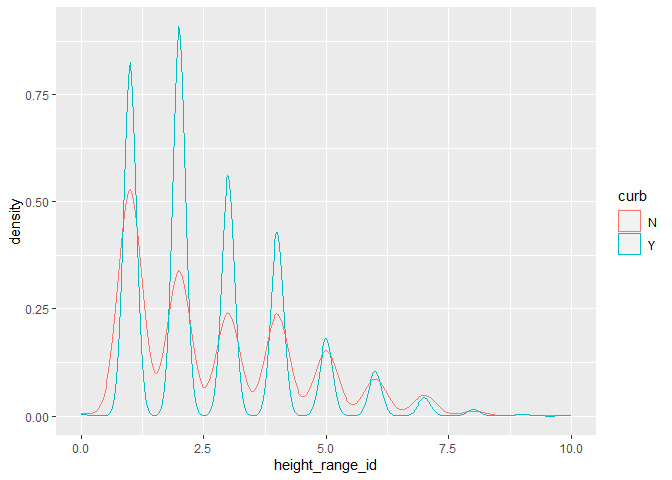
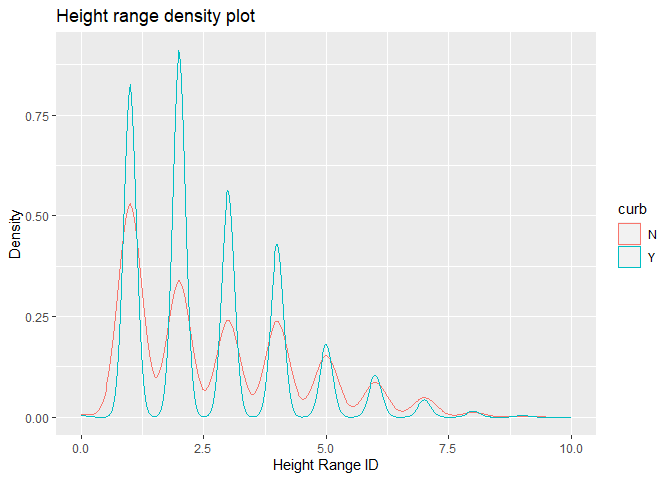
Final

diff --git a/mda-nmhowes03.md b/mda-nmhowes03.md
@@ -5,6 +5,8 @@ Nicole
 
 # Welcome to your (maybe) first-ever data analysis project!
 
+# 
+
 And hopefully the first of many. Let’s get started:
 
 1.  Install the [`datateachr`](https://github.com/UBC-MDS/datateachr)
@@ -566,7 +568,7 @@ to choose this one? Briefly explain your choice below.
 most interesting to me as I would like to investigate the relationship
 between tree species, location and dimention of the trees. It was also
 be interesting to look at trees that I could potentially see in my
-neighborhood and if they could ge easy to spot based ont ehir location
+neighborhood and if they could ge easy to spot based on their location
 and size.
 
 <!----------------------------------------------------------------------------->
@@ -649,20 +651,20 @@ sufficient comments for a reader to understand your reasoning and code.
 
 <!-------------------------- Start your work below ---------------------------->
 
-# First I wanted to “Plot the distribution of a numeric variable (#1)” for this task I want to look at diameter and what the most common diameter is across all the trees.
+# First I wanted find the average diameter of the trees to get a sense of how big they were by looking at the diameter distribution and what the most common diameter is across all the trees (Plot the distribution of a numeric variable (#1))
 
 ``` r
 ggplot(vancouver_trees, aes(x = diameter)) + 
   geom_histogram(binwidth=5.5) +
-  labs(title= "Tree Diameter", x = "diameter (m)", y = "number of trees") %>% 
+  labs(title= "Tree Diameter", x = "Diameter (m)", y = "Number of trees") %>% 
   print()
 ```
 
     ## $x
-    ## [1] "diameter (m)"
+    ## [1] "Diameter (m)"
     ## 
     ## $y
-    ## [1] "number of trees"
+    ## [1] "Number of trees"
     ## 
     ## $title
     ## [1] "Tree Diameter"
@@ -673,10 +675,10 @@ ggplot(vancouver_trees, aes(x = diameter)) +
 ![](mda-nmhowes03_files/figure-gfm/unnamed-chunk-19-1.png)<!-- -->
 
 ``` r
-#This shows me that most of the diameters are under 50 with majority being around 10.So if I needed to cut some trees I could filter for diameters just under 25 as that is where I would find the majority of them. For this plot I used the diameter for the x axis to view the counts in a histogram using ggplot. 
+#This shows me that most of the diameters are under 50 with majority being around 10.So if I needed to cut some trees I could filter for diameters just under 25 as that is where I would find the majority of them. For this plot I used the diameter for the x axis to view the counts in a histogram using ggplot to look at the distribution. 
 ```
 
-# I also want to look at trees in my own neighbourhood to see what tree’s I could look at during an everyday walk (Filter observations in your data according to your own criteria \#5)
+# I also want to look at trees in my own neighbourhood to see what tree’s I could look at during an everyday walk in Kitsilano (Filter observations in your data according to your own criteria \#5)
 
 ``` r
 print (filter (vancouver_trees, neighbourhood_name == "KITSILANO"))
@@ -735,20 +737,20 @@ vancouver_trees %>%
 #I also wanted to know the most common species located in Kitsilano so I used the top_n function and found the most common species to be "Zumi".
 ```
 
-# I wanted to addtionally look at the relationship between 2 variables in a plot being the diameter and neighbourhood to get a sense of where the widest trees were (#4)
+# I wanted to also look at the relationship between 2 variables in a plot being the diameter and neighbourhood to get a sense of where the widest trees were (#4)
 
 ``` r
 ggplot(vancouver_trees, aes(x = diameter, y = neighbourhood_name)) +
      geom_point(size = 0.5, alpha = 0.5) +
-    labs(title= "Diameters among trees in various neighbourhoods", x = "diameter (m)", y = "neighbourhood name") %>% 
+    labs(title= "Diameters among trees in various neighbourhoods", x = "Diameter (m)", y = "Neighbourhood Name") %>% 
   print()
 ```
 
     ## $x
-    ## [1] "diameter (m)"
+    ## [1] "Diameter (m)"
     ## 
     ## $y
-    ## [1] "neighbourhood name"
+    ## [1] "Neighbourhood Name"
     ## 
     ## $title
     ## [1] "Diameters among trees in various neighbourhoods"
@@ -769,15 +771,15 @@ vancouver_trees %>%
   filter(neighbourhood_name == "KITSILANO", diameter > 40.00 ) %>%
   ggplot(aes(x = diameter, y = common_name)) +
   geom_point() +
-  labs(title= "Diameters among trees in Kitsilano", x = "diameter (m)", y = "common tree name") %>% 
+  labs(title= "Diameters among trees in Kitsilano", x = "Diameter (m)", y = "Common Tree Name") %>% 
   print()
 ```
 
     ## $x
-    ## [1] "diameter (m)"
+    ## [1] "Diameter (m)"
     ## 
     ## $y
-    ## [1] "common tree name"
+    ## [1] "Common Tree Name"
     ## 
     ## $title
     ## [1] "Diameters among trees in Kitsilano"
@@ -788,28 +790,23 @@ vancouver_trees %>%
 ![](mda-nmhowes03_files/figure-gfm/unnamed-chunk-22-1.png)<!-- -->
 
 ``` r
-#This shows me the exact species that I can find in Kitsilano that are large with a diameter above 40, this plot also shows the largest tree species in diameter in Kitsilano being a Maple species. To build this plot I first filtered for the neighbourhood as the there are too many tree species in the dataset to show on a single graph, I also had to filter for a diameter above 40. I was then able to view diameters above 40 and tree species. 
+#This shows me the exact species that I can find in Kitsilano that are large with a diameter above 40, this plot also shows the largest tree species in diameter in Kitsilano being a Maple species. To build this plot I first filtered for the neighbourhood as the there are too many tree species in the dataset to show on a single graph, I also had to filter for a diameter above 40. I was then able to view diameters above 40 and tree species easily. 
 ```
 
-# Lastly I wanted to look at the height of these trees to also see how large they were and if they were located on the curb in a density plot (#8) so I would be able to see them easier.
+# Lastly I wanted to look at the height of these trees to also see how large they were and if they were located on the curb in a density plot (#8) so I would be able to see them easier on a walk.
 
 ``` r
 ggplot(vancouver_trees, aes(x = height_range_id, colour = curb)) +
-   geom_density(alpha=0.4)
-```
-
-![](mda-nmhowes03_files/figure-gfm/unnamed-chunk-23-1.png)<!-- -->
-
-``` r
-  labs(title= "Height range density plot", x = "height range", y = "density") %>% 
+   geom_density(alpha=0.4) +
+  labs(title= "Height range density plot", x = "Height Range ID", y = "Density") %>% 
   print()
 ```
 
     ## $x
-    ## [1] "height range"
+    ## [1] "Height Range ID"
     ## 
     ## $y
-    ## [1] "density"
+    ## [1] "Density"
     ## 
     ## $title
     ## [1] "Height range density plot"
@@ -817,8 +814,10 @@ ggplot(vancouver_trees, aes(x = height_range_id, colour = curb)) +
     ## attr(,"class")
     ## [1] "labels"
 
+![](mda-nmhowes03_files/figure-gfm/unnamed-chunk-23-1.png)<!-- -->
+
 ``` r
-#This shows me most of the trees were in the ID = 2 range meaning they were around 20-25 ft as they were in the 20-30 range and that the same trend is seen for trees both on and off the curb that the trees decrease in density the taller they get and most trees on the curb being around 20 ft. This was easily seen by making a density plot of the height range id and using colour the differentiate between trees located on and off the curb. 
+#This shows me most of the trees were in the ID = 2 range meaning they were around 20-25 ft as they were in the 20-30 range and that the same trend is seen for trees both on and off the curb that the trees decrease in density the taller they get and most trees on the curb are around 20 ft. This was easily seen by making a density plot of the height range id and using colour the differentiate between trees located on and off the curb. 
 ```
 
 # Task 3: Choose research questions
@@ -830,6 +829,10 @@ research question that interested you (Task 1.4). Now it’s time to pick
 Write the 4 questions and any additional comments below.
 
 <!--- *****START HERE***** --->
+
+\#Through my data analysis I’ve found that I wanted to further
+investigate height/diameter of trees in relation to trees in Kitsilano
+and the amount of trees in certain nieghbourhoods.
 
 \#1: Are larger trees (diameter) in Kitsilano typically seen on the
 curb?
